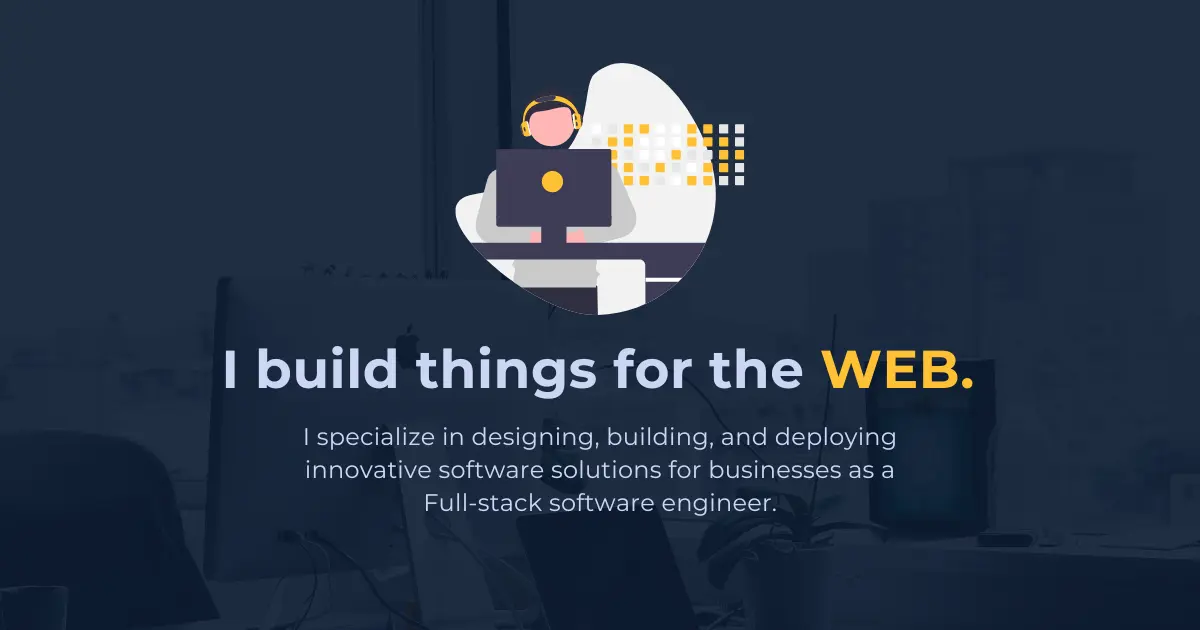
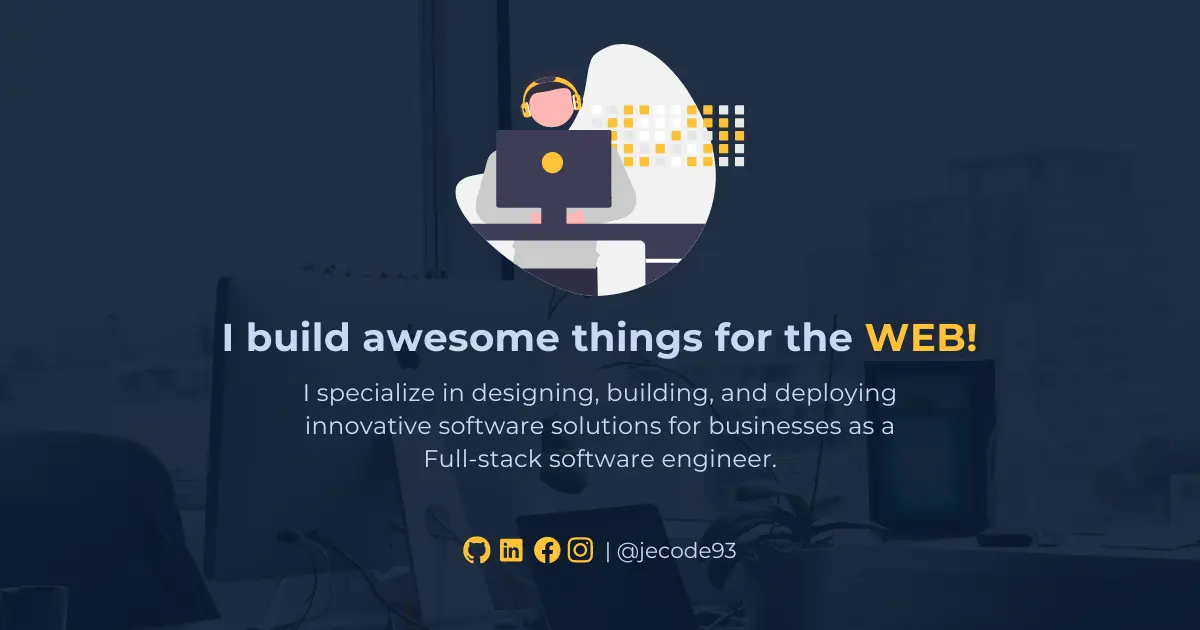
Update subtitle text, and open graph image for social media.

diff --git a/js/data/home/home.js b/js/data/home/home.js
@@ -2,7 +2,7 @@ export const hero = [
   {
     greating: "Hi, my name is",
     title: `Jean Emmanuel`,
-    subTitle: "I build things for the web.",
+    subTitle: "I build awesome things for the web.",
     description: `I specialize in designing, building, and deploying innovative software solutions for businesses as a Full-stack software engineer.`,
   },
 ];
